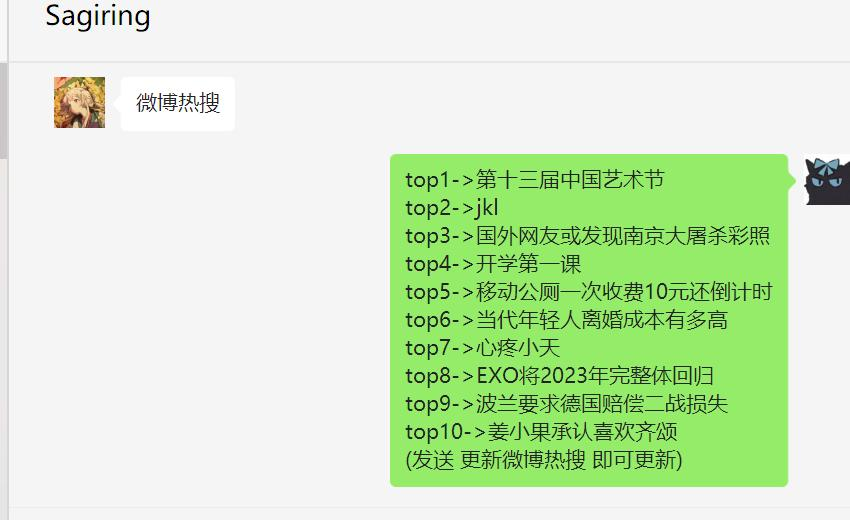
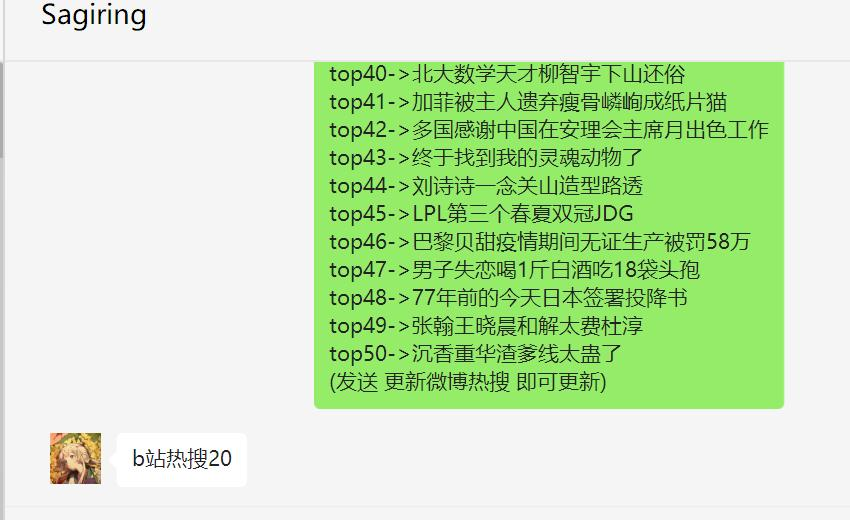
V4.12

diff --git a/Py/OCR_bot/wechat_bot.py b/Py/OCR_bot/wechat_bot.py
@@ -118,16 +118,22 @@ def msg_creat(window_position):
 def langugage_functions(news_msg):
     exit = 0
     res = ''
-    if news_msg == 'b站热搜':
-        res = bilibili_msg_creat()
-        res += '(发送 更新b站热搜 即可更新)'
+    if ('b站热搜' in news_msg and news_msg[4:].isdigit()) or news_msg == 'b站热搜':
+        if news_msg[4:].isdigit():
+            res = bilibili_msg_creat(int(news_msg[4:]))
+        else:
+            res = bilibili_msg_creat()
+        res += '(后跟数字指定显示列数)'
     elif news_msg == '更新b站热搜':
         get_bilibili_hot()
         res = '已更新'
 
-    elif news_msg == '微博热搜':
-        res = weibo_msg_creat()
-        res += '(发送 更新微博热搜 即可更新)'
+    elif ('微博热搜' in news_msg and news_msg[4:].isdigit()) or news_msg == '微博热搜':
+        if news_msg[4:].isdigit():
+            res = weibo_msg_creat(int(news_msg[4:]))
+        else:
+            res = weibo_msg_creat()
+        res += '(后跟数字指定显示列数)'
     elif news_msg == '更新微博热搜':
         weibo_get_hot()
         res = '已更新'
